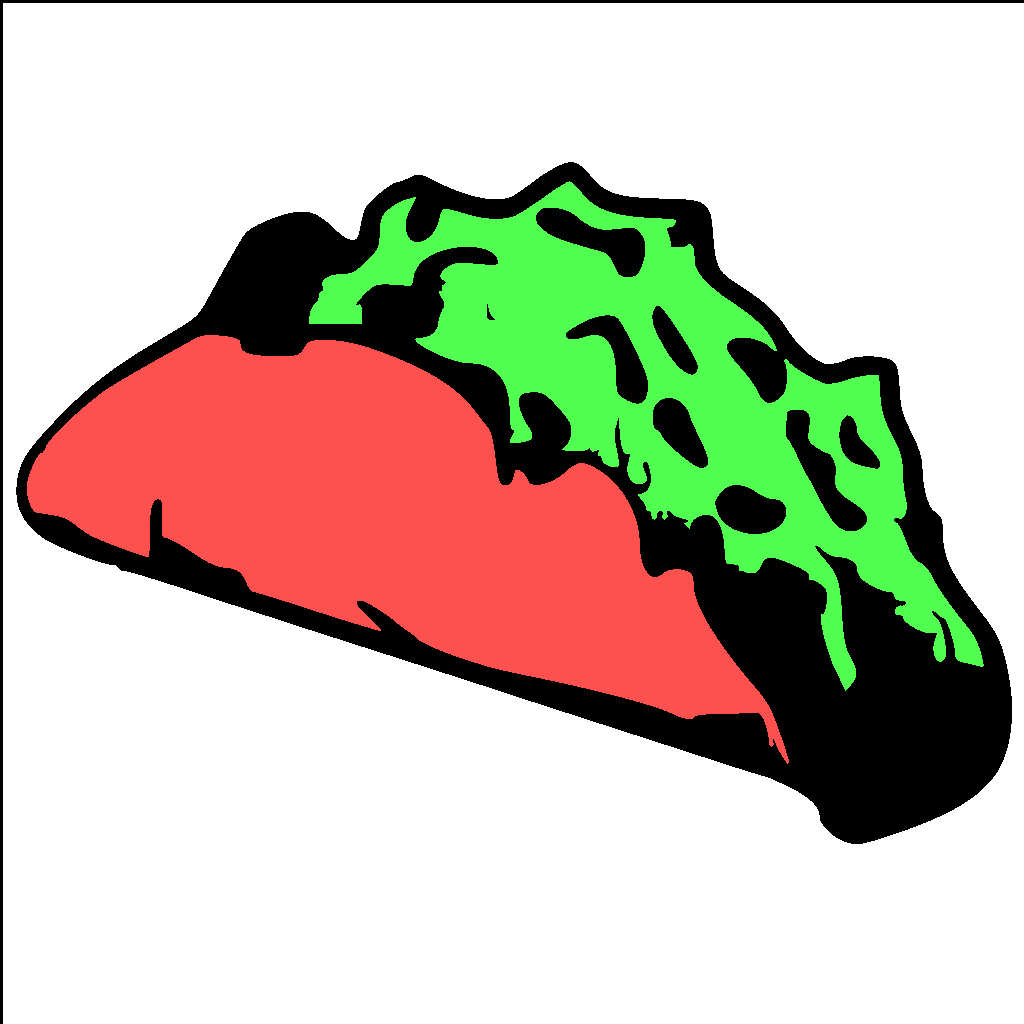
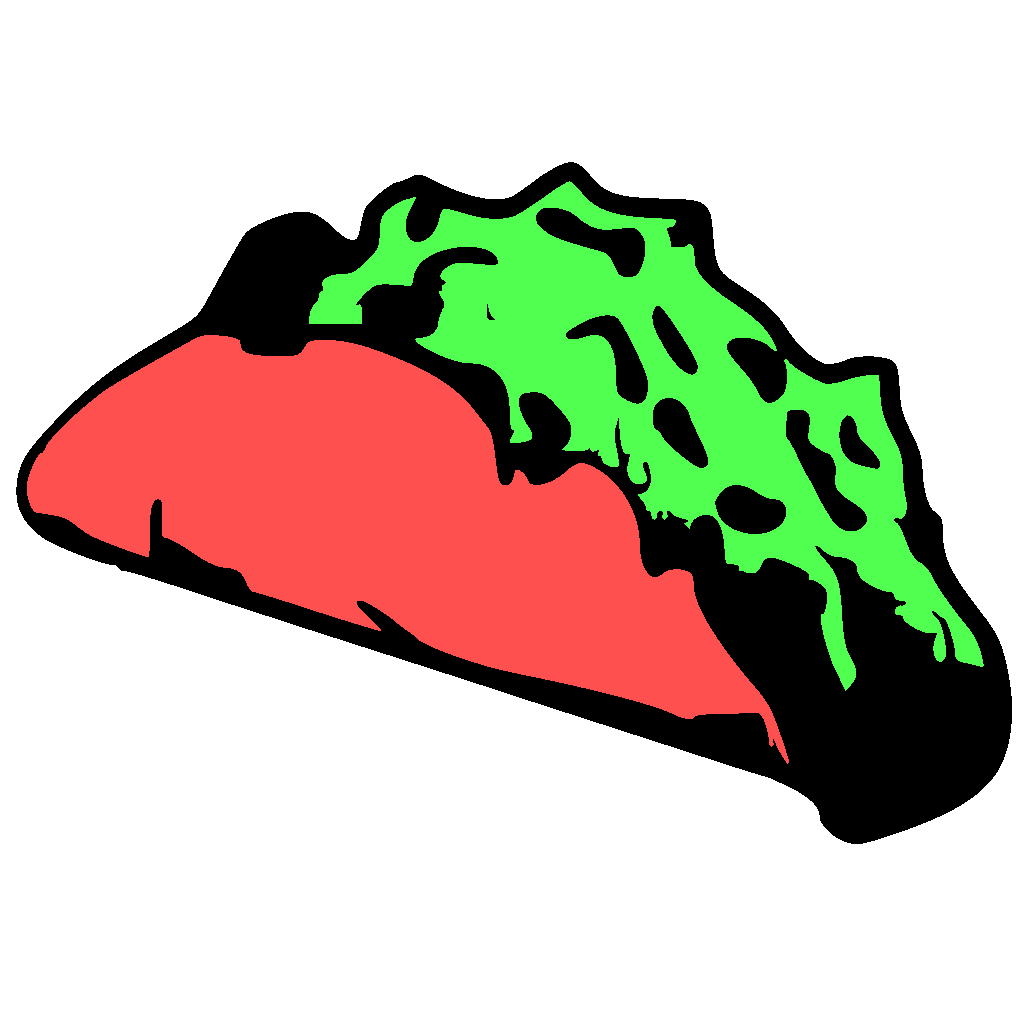
taco: include taco.png edge-fix + nfc-writer 50-variant queue
Companion fix to previous commit — the previous commit missed the binary
PNG update (cleared L-shaped black ink artifact along left/top edges) and
the nfc-writer.html queue replacement (50 taco variants in QUEUES.taco,
selectable via #taco/#coat URL hash).

Changed region(s): [[0.0, 0.0, 0.0312, 0.0312]]

diff --git a/nfc-writer.html b/nfc-writer.html
@@ -4,7 +4,7 @@
 <meta charset="UTF-8">
 <meta name="viewport" content="width=device-width, initial-scale=1.0, viewport-fit=cover">
 <meta name="theme-color" content="#0a0a14">
-<title>the-coat NFC writer</title>
+<title>taco NFC writer</title>
 <style>
   :root {
     color-scheme: dark;
@@ -14,6 +14,11 @@
     --navy: #1a3470;
     --skyblue: #6cb0e8;
     --shadow: #1a1a1a;
+    --taco-demo: #f39c12;
+    --taco-region-mask: #6cb0e8;
+    --taco-tortilla-cosmic: #e67e22;
+    --taco-direct-kick: #e74c3c;
+    --taco-cubic-ease: #2ecc71;
     --ok: #2ecc71;
     --err: #e74c3c;
     --warn: #f39c12;
@@ -59,6 +64,11 @@
   .current.color-navy { border-left: 4px solid var(--navy); }
   .current.color-skyblue { border-left: 4px solid var(--skyblue); }
   .current.color-shadow { border-left: 4px solid var(--shadow); }
+  .current.color-taco-demo { border-left: 4px solid var(--taco-demo); }
+  .current.color-taco-region-mask { border-left: 4px solid var(--taco-region-mask); }
+  .current.color-taco-tortilla-cosmic { border-left: 4px solid var(--taco-tortilla-cosmic); }
+  .current.color-taco-direct-kick { border-left: 4px solid var(--taco-direct-kick); }
+  .current.color-taco-cubic-ease { border-left: 4px solid var(--taco-cubic-ease); }
   .label {
     font-size: 12px;
     text-transform: uppercase;
@@ -162,8 +172,8 @@
 <body>
 
 <header>
-  <h1>the-coat NFC writer</h1>
-  <span class="progress" id="progress">0 / 30</span>
+  <h1 id="title">taco NFC writer</h1>
+  <span class="progress" id="progress">0 / 50</span>
 </header>
 
 <div id="unsupported" class="unsupported" style="display:none">
@@ -193,43 +203,108 @@
 </details>
 
 <script>
-const QUEUE = [
-  // navy
-  { name: "coat-navy-1",  url: "https://2cb.pw/coat-navy-1",  color: "navy" },
-  { name: "coat-navy-2",  url: "https://2cb.pw/coat-navy-2",  color: "navy" },
-  { name: "coat-navy-3",  url: "https://2cb.pw/coat-navy-3",  color: "navy" },
-  { name: "coat-navy-4",  url: "https://2cb.pw/coat-navy-4",  color: "navy" },
-  { name: "coat-navy-5",  url: "https://2cb.pw/coat-navy-5",  color: "navy" },
-  { name: "coat-navy-6",  url: "https://2cb.pw/coat-navy-6",  color: "navy" },
-  { name: "coat-navy-7",  url: "https://2cb.pw/coat-navy-7",  color: "navy" },
-  { name: "coat-navy-8",  url: "https://2cb.pw/coat-navy-8",  color: "navy" },
-  { name: "coat-navy-9",  url: "https://2cb.pw/coat-navy-9",  color: "navy" },
-  { name: "coat-navy-10", url: "https://2cb.pw/coat-navy-10", color: "navy" },
-  // skyblue
-  { name: "coat-skyblue-1",  url: "https://2cb.pw/coat-skyblue-1",  color: "skyblue" },
-  { name: "coat-skyblue-2",  url: "https://2cb.pw/coat-skyblue-2",  color: "skyblue" },
-  { name: "coat-skyblue-3",  url: "https://2cb.pw/coat-skyblue-3",  color: "skyblue" },
-  { name: "coat-skyblue-4",  url: "https://2cb.pw/coat-skyblue-4",  color: "skyblue" },
-  { name: "coat-skyblue-5",  url: "https://2cb.pw/coat-skyblue-5",  color: "skyblue" },
-  { name: "coat-skyblue-6",  url: "https://2cb.pw/coat-skyblue-6",  color: "skyblue" },
-  { name: "coat-skyblue-7",  url: "https://2cb.pw/coat-skyblue-7",  color: "skyblue" },
-  { name: "coat-skyblue-8",  url: "https://2cb.pw/coat-skyblue-8",  color: "skyblue" },
-  { name: "coat-skyblue-9",  url: "https://2cb.pw/coat-skyblue-9",  color: "skyblue" },
-  { name: "coat-skyblue-10", url: "https://2cb.pw/coat-skyblue-10", color: "skyblue" },
-  // shadow
-  { name: "coat-shadow-1",  url: "https://2cb.pw/coat-shadow-1",  color: "shadow" },
-  { name: "coat-shadow-2",  url: "https://2cb.pw/coat-shadow-2",  color: "shadow" },
-  { name: "coat-shadow-3",  url: "https://2cb.pw/coat-shadow-3",  color: "shadow" },
-  { name: "coat-shadow-4",  url: "https://2cb.pw/coat-shadow-4",  color: "shadow" },
-  { name: "coat-shadow-5",  url: "https://2cb.pw/coat-shadow-5",  color: "shadow" },
-  { name: "coat-shadow-6",  url: "https://2cb.pw/coat-shadow-6",  color: "shadow" },
-  { name: "coat-shadow-7",  url: "https://2cb.pw/coat-shadow-7",  color: "shadow" },
-  { name: "coat-shadow-8",  url: "https://2cb.pw/coat-shadow-8",  color: "shadow" },
-  { name: "coat-shadow-9",  url: "https://2cb.pw/coat-shadow-9",  color: "shadow" },
-  { name: "coat-shadow-10", url: "https://2cb.pw/coat-shadow-10", color: "shadow" },
-]
+const QUEUES = {
+  taco: [
+    // demo (locked DJ-demo build)
+    { name: "taco-1", url: "https://2cb.pw/taco-1", color: "taco-demo" },
+    { name: "taco-2", url: "https://2cb.pw/taco-2", color: "taco-demo" },
+    { name: "taco-3", url: "https://2cb.pw/taco-3", color: "taco-demo" },
+    { name: "taco-4", url: "https://2cb.pw/taco-4", color: "taco-demo" },
+    { name: "taco-5", url: "https://2cb.pw/taco-5", color: "taco-demo" },
+    { name: "taco-6", url: "https://2cb.pw/taco-6", color: "taco-demo" },
+    { name: "taco-7", url: "https://2cb.pw/taco-7", color: "taco-demo" },
+    { name: "taco-8", url: "https://2cb.pw/taco-8", color: "taco-demo" },
+    { name: "taco-9", url: "https://2cb.pw/taco-9", color: "taco-demo" },
+    { name: "taco-10", url: "https://2cb.pw/taco-10", color: "taco-demo" },
+    // direct-kick
+    { name: "taco-11", url: "https://2cb.pw/taco-11", color: "taco-direct-kick" },
+    { name: "taco-12", url: "https://2cb.pw/taco-12", color: "taco-direct-kick" },
+    { name: "taco-13", url: "https://2cb.pw/taco-13", color: "taco-direct-kick" },
+    { name: "taco-14", url: "https://2cb.pw/taco-14", color: "taco-direct-kick" },
+    { name: "taco-15", url: "https://2cb.pw/taco-15", color: "taco-direct-kick" },
+    { name: "taco-16", url: "https://2cb.pw/taco-16", color: "taco-direct-kick" },
+    { name: "taco-17", url: "https://2cb.pw/taco-17", color: "taco-direct-kick" },
+    { name: "taco-18", url: "https://2cb.pw/taco-18", color: "taco-direct-kick" },
+    { name: "taco-19", url: "https://2cb.pw/taco-19", color: "taco-direct-kick" },
+    { name: "taco-20", url: "https://2cb.pw/taco-20", color: "taco-direct-kick" },
+    // tortilla-cosmic
+    { name: "taco-21", url: "https://2cb.pw/taco-21", color: "taco-tortilla-cosmic" },
+    { name: "taco-22", url: "https://2cb.pw/taco-22", color: "taco-tortilla-cosmic" },
+    { name: "taco-23", url: "https://2cb.pw/taco-23", color: "taco-tortilla-cosmic" },
+    { name: "taco-24", url: "https://2cb.pw/taco-24", color: "taco-tortilla-cosmic" },
+    { name: "taco-25", url: "https://2cb.pw/taco-25", color: "taco-tortilla-cosmic" },
+    { name: "taco-26", url: "https://2cb.pw/taco-26", color: "taco-tortilla-cosmic" },
+    { name: "taco-27", url: "https://2cb.pw/taco-27", color: "taco-tortilla-cosmic" },
+    { name: "taco-28", url: "https://2cb.pw/taco-28", color: "taco-tortilla-cosmic" },
+    { name: "taco-29", url: "https://2cb.pw/taco-29", color: "taco-tortilla-cosmic" },
+    { name: "taco-30", url: "https://2cb.pw/taco-30", color: "taco-tortilla-cosmic" },
+    // region-mask
+    { name: "taco-31", url: "https://2cb.pw/taco-31", color: "taco-region-mask" },
+    { name: "taco-32", url: "https://2cb.pw/taco-32", color: "taco-region-mask" },
+    { name: "taco-33", url: "https://2cb.pw/taco-33", color: "taco-region-mask" },
+    { name: "taco-34", url: "https://2cb.pw/taco-34", color: "taco-region-mask" },
+    { name: "taco-35", url: "https://2cb.pw/taco-35", color: "taco-region-mask" },
+    { name: "taco-36", url: "https://2cb.pw/taco-36", color: "taco-region-mask" },
+    { name: "taco-37", url: "https://2cb.pw/taco-37", color: "taco-region-mask" },
+    { name: "taco-38", url: "https://2cb.pw/taco-38", color: "taco-region-mask" },
+    { name: "taco-39", url: "https://2cb.pw/taco-39", color: "taco-region-mask" },
+    { name: "taco-40", url: "https://2cb.pw/taco-40", color: "taco-region-mask" },
+    // cubic-ease
+    { name: "taco-41", url: "https://2cb.pw/taco-41", color: "taco-cubic-ease" },
+    { name: "taco-42", url: "https://2cb.pw/taco-42", color: "taco-cubic-ease" },
+    { name: "taco-43", url: "https://2cb.pw/taco-43", color: "taco-cubic-ease" },
+    { name: "taco-44", url: "https://2cb.pw/taco-44", color: "taco-cubic-ease" },
+    { name: "taco-45", url: "https://2cb.pw/taco-45", color: "taco-cubic-ease" },
+    { name: "taco-46", url: "https://2cb.pw/taco-46", color: "taco-cubic-ease" },
+    { name: "taco-47", url: "https://2cb.pw/taco-47", color: "taco-cubic-ease" },
+    { name: "taco-48", url: "https://2cb.pw/taco-48", color: "taco-cubic-ease" },
+    { name: "taco-49", url: "https://2cb.pw/taco-49", color: "taco-cubic-ease" },
+    { name: "taco-50", url: "https://2cb.pw/taco-50", color: "taco-cubic-ease" },
+  ],
+  coat: [
+    // navy
+    { name: "coat-navy-1",  url: "https://2cb.pw/coat-navy-1",  color: "navy" },
+    { name: "coat-navy-2",  url: "https://2cb.pw/coat-navy-2",  color: "navy" },
+    { name: "coat-navy-3",  url: "https://2cb.pw/coat-navy-3",  color: "navy" },
+    { name: "coat-navy-4",  url: "https://2cb.pw/coat-navy-4",  color: "navy" },
+    { name: "coat-navy-5",  url: "https://2cb.pw/coat-navy-5",  color: "navy" },
+    { name: "coat-navy-6",  url: "https://2cb.pw/coat-navy-6",  color: "navy" },
+    { name: "coat-navy-7",  url: "https://2cb.pw/coat-navy-7",  color: "navy" },
+    { name: "coat-navy-8",  url: "https://2cb.pw/coat-navy-8",  color: "navy" },
+    { name: "coat-navy-9",  url: "https://2cb.pw/coat-navy-9",  color: "navy" },
+    { name: "coat-navy-10", url: "https://2cb.pw/coat-navy-10", color: "navy" },
+    // skyblue
+    { name: "coat-skyblue-1",  url: "https://2cb.pw/coat-skyblue-1",  color: "skyblue" },
+    { name: "coat-skyblue-2",  url: "https://2cb.pw/coat-skyblue-2",  color: "skyblue" },
+    { name: "coat-skyblue-3",  url: "https://2cb.pw/coat-skyblue-3",  color: "skyblue" },
+    { name: "coat-skyblue-4",  url: "https://2cb.pw/coat-skyblue-4",  color: "skyblue" },
+    { name: "coat-skyblue-5",  url: "https://2cb.pw/coat-skyblue-5",  color: "skyblue" },
+    { name: "coat-skyblue-6",  url: "https://2cb.pw/coat-skyblue-6",  color: "skyblue" },
+    { name: "coat-skyblue-7",  url: "https://2cb.pw/coat-skyblue-7",  color: "skyblue" },
+    { name: "coat-skyblue-8",  url: "https://2cb.pw/coat-skyblue-8",  color: "skyblue" },
+    { name: "coat-skyblue-9",  url: "https://2cb.pw/coat-skyblue-9",  color: "skyblue" },
+    { name: "coat-skyblue-10", url: "https://2cb.pw/coat-skyblue-10", color: "skyblue" },
+    // shadow
+    { name: "coat-shadow-1",  url: "https://2cb.pw/coat-shadow-1",  color: "shadow" },
+    { name: "coat-shadow-2",  url: "https://2cb.pw/coat-shadow-2",  color: "shadow" },
+    { name: "coat-shadow-3",  url: "https://2cb.pw/coat-shadow-3",  color: "shadow" },
+    { name: "coat-shadow-4",  url: "https://2cb.pw/coat-shadow-4",  color: "shadow" },
+    { name: "coat-shadow-5",  url: "https://2cb.pw/coat-shadow-5",  color: "shadow" },
+    { name: "coat-shadow-6",  url: "https://2cb.pw/coat-shadow-6",  color: "shadow" },
+    { name: "coat-shadow-7",  url: "https://2cb.pw/coat-shadow-7",  color: "shadow" },
+    { name: "coat-shadow-8",  url: "https://2cb.pw/coat-shadow-8",  color: "shadow" },
+    { name: "coat-shadow-9",  url: "https://2cb.pw/coat-shadow-9",  color: "shadow" },
+    { name: "coat-shadow-10", url: "https://2cb.pw/coat-shadow-10", color: "shadow" },
+  ],
+}
 
-const STORAGE_KEY = "the-coat-nfc-writer-state"
+// URL hash selects queue: #coat for the coat queue, default = taco
+const QUEUE_NAME = (location.hash.replace("#", "") || "taco")
+const QUEUE = QUEUES[QUEUE_NAME] || QUEUES.taco
+document.getElementById("title").textContent = QUEUE_NAME + " NFC writer"
+document.title = QUEUE_NAME + " NFC writer"
+
+const STORAGE_KEY = QUEUE_NAME + "-nfc-writer-state"
 
 const els = {
   unsupported: document.getElementById("unsupported"),